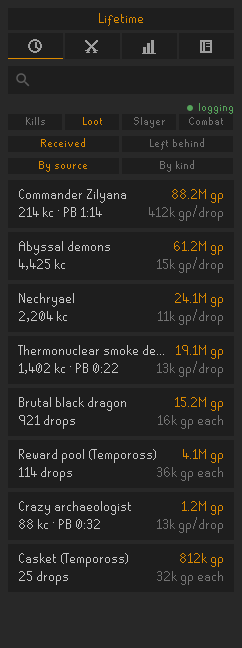
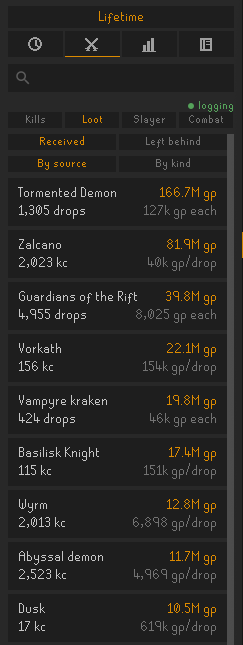
Real shots for PvM
Loot and Slayer off his own client. Nothing on either carries the account name,
and the dates on the journey rows are task dates rather than an age proxy, so
both go up whole.

Combat reworded to match the shape the Ledger line took.

diff --git a/README.md b/README.md
@@ -51,7 +51,8 @@ just that.
 what each one paid and how many kills gave nothing, the game's own count per monster, and the
 drops the tasks produced.
 
-**Combat** is damage dealt broken out by style, deaths, and your highest hit.
+**Combat** is a count of the trackers relating to combat: damage dealt, deaths, and your
+highest hit.
 
 ### Skilling
 
